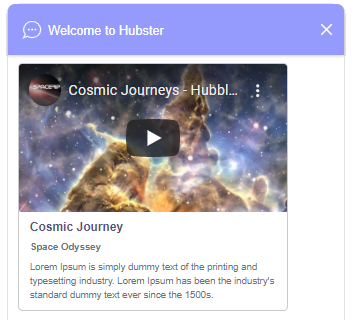
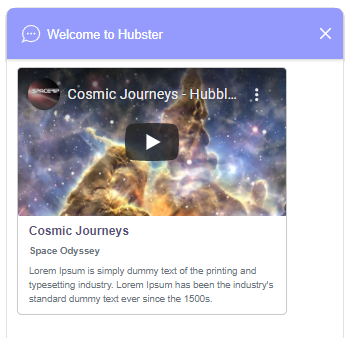
commit

diff --git a/docs/api/4_activities.rst b/docs/api/4_activities.rst
@@ -976,7 +976,7 @@ Sources allowed to send: **customer**, **agent** and **bot**.
             "type": "card",	
             "urlType": "youtube",
             "imageUrl": "https://youtube.com/embed/abc",
-            "title": "Cosmic Journey",
+            "title": "Cosmic Journeys",
             "subtitle": "Space Odyssey",
             "content": "Lorem Ipsum is simply..."
           }           
@@ -986,6 +986,190 @@ Sources allowed to send: **customer**, **agent** and **bot**.
 
 Carousel         
 ~~~~~~~~
+
+Sources allowed to send: **agent** and **bot**.
+
+.. list-table::
+    :widths: 5 10 50
+    :header-rows: 1   
+  
+    * - Property     
+      - Mandatory
+      - Description
+    * - type
+      - Yes
+      - Must be **carousel**.
+    * - items
+      - yes
+      - | Must contain one or more of the following message types:
+        
+        * image
+        * youtube 
+        * vimeo
+        * video 
+        * audio
+    * - channels
+      - No
+      - Channel specific applied properties. The example below shows how to render 
+        the title on a **Webchat** channel. Note: only applicable to image items.
+
+**Example**
+
+.. list-table::
+    :widths: 10 200
+    :header-rows: 1   
+
+    * - Request          
+      - View
+    * - .. code-block:: JSON
+
+          {
+            "type": "carousel",	
+            "items": [
+              {
+                "title": "Victorious",
+                "content": "Lorem Ipsum is...",
+                "urlType": "image",
+                "url": "http://site.com/image1.png",
+                "actions": [
+                  {
+                    "type": "reply",
+                    "title": "Select",
+                    "payload": "Victorious"
+                  },
+                  {
+                    "type": "link",
+                    "title": "More Info",
+                    "url": "https://hubster.io"
+                  }
+                ]
+              },
+              {
+                "title": "Green Dragon",
+                "content": "Lorem Ipsum is...",
+                "urlType": "image",
+                "url": "http://site.com/image2.png",
+                "actions": [
+                  {
+                    "type": "reply",
+                    "title": "Select",
+                    "payload": "Green Dragon"
+                  },
+                  {
+                    "type": "link",
+                    "title": "More Info",
+                    "url": "https://hubster.io"
+                  }
+                ]
+              },
+              {
+                "title": "Panther",
+                "content": "Lorem Ipsum is...",
+                "urlType": "image",                
+                "url": "http://site.com/image3.png",
+                "actions": [
+                  {
+                    "type": "reply",
+                    "title": "Select",
+                    "payload": "Black Panther"
+                  },
+                  {
+                    "type": "link",
+                    "title": "More Info",
+                    "url": "https://hubster.io"
+                  }
+                ]
+              }
+            ],
+            "channels": [
+              {
+                "type": "Webchat",
+                "metadata": [
+                  {
+                    "key": "caption-show",
+                    "value": "true"
+                  },
+                  {
+                    "key": "caption-color",
+                    "value": "white"
+                  }
+                ]
+              }
+            ]
+          }           
+
+      - .. image:: images/activity_carousel_ex_01.png
+
+
+    * - .. code-block:: JSON
+
+          {
+            "type": "carousel",	
+            "items": [
+              {
+                "title": "Cosmic Journeys",
+                "content": "Lorem Ipsum is...",
+                "urlType": "youtube",
+                "url": "youtube.com/embed/1234",
+                "actions": [
+                  {
+                    "type": "reply",
+                    "title": "Select",
+                    "payload": "Cosmic Journeys"
+                  },
+                  {
+                    "type": "link",
+                    "title": "Watch",
+                    "url": "youtube.com/embed/1234"
+                  }  
+                ]
+              },
+              {
+                "title": "Space",
+                "content": "Lorem Ipsum is...",
+                "urlType": "vimeo",
+                "url": "player.vimeo.com/video/1234",
+                "actions": [
+                  {
+                    "type": "reply",
+                    "title": "Select",
+                    "payload": "Space"
+                  },
+                  {
+                    "type": "link",
+                    "title": "Watch",
+                    "url": "player.vimeo.com/video/1234"
+                  }  
+                ]
+              },
+              {
+                "title": "Elephants",
+                "content": "Lorem Ipsum is...",
+                "urlType": "video",
+                "url": "http://site.com/v1.mp4",                
+                "actions": [
+                  {
+                    "type": "reply",
+                    "title": "Select",
+                    "payload": "Elephants"
+                  },
+                  {
+                    "type": "link",
+                    "title": "Watch",
+                    "url": "https//site.com/v1.mp4"
+                  }  
+                ]
+              }
+            ]           
+          }           
+
+      - .. image:: images/activity_carousel_ex_02.png
+
+
+.. note:: 
+    Certain devices do not support carousels. If a device is unable to display a carousel,
+    Hubster will render the carousel as a list.    
+
 
 List
 ~~~~

diff --git a/docs/readme.md b/docs/readme.md
@@ -18,6 +18,11 @@ You can find more information about RTD and Sphinx under the following links:
 * https://draft-edx-style-guide.readthedocs.io/en/latest/ExampleRSTFile.html
 * pip install sphinx_rtd_theme
 
+### How to run during editing
+* Run in the background **autobuild.bat** 
+* Navigate to: http://127.0.0.1:8000
+
+
 
 
 
